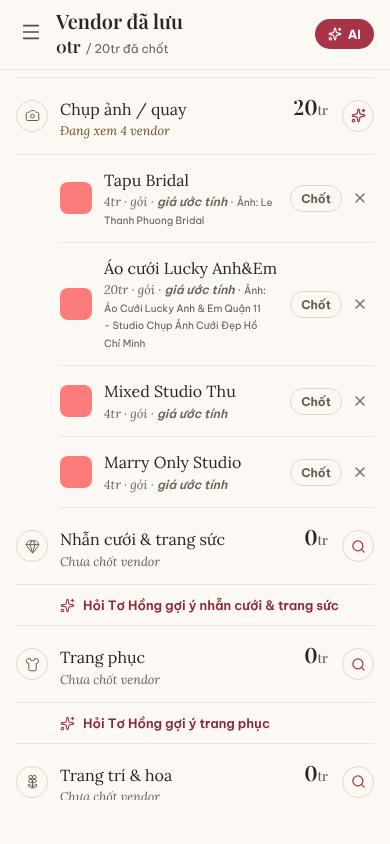
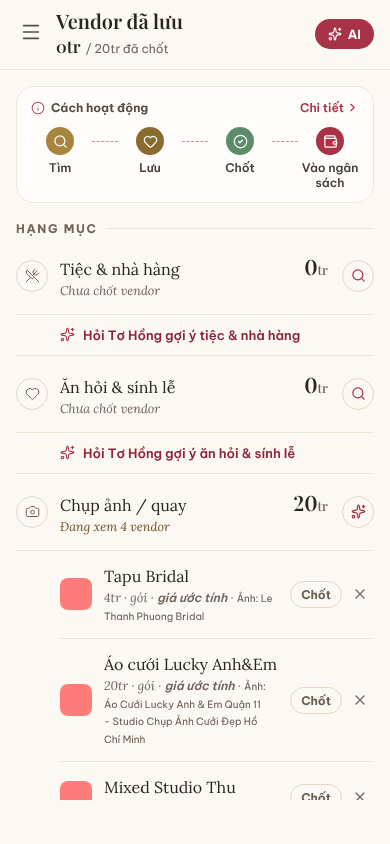
[T-166] bỏ cuộn tự động ở Vendors, cô lập bidi tên tác giả, ghi công gần ảnh hơn
Claude-Session: https://claude.ai/code/session_01UGMXKqieLcV2K1vphWF5EZ

diff --git a/src/screens/Vendors.jsx b/src/screens/Vendors.jsx
@@ -1,4 +1,4 @@
-import { useEffect, useRef, useState } from 'react';
+import { useEffect, useState } from 'react';
 import { Icon } from '../ui/Icon.jsx';
 import { VENDOR_CATEGORIES, useVendorCtx } from './VendorCtx.jsx';
 import { VFlowOverview, VendorFlowSheet } from './VendorFlowSheet.jsx';
@@ -80,7 +80,7 @@ function CatCard({ cat, onOpenChat }) {
   else if (vendors.length > 0) { sub = `Đang xem ${vendors.length} vendor`; subColor = 'var(--kim-700)'; }
 
   return (
-    <div data-cat={cat.id}>
+    <div>
       <ListRow
         icon={cat.icon} done={status === 'confirmed'}
         title={cat.name}
@@ -127,20 +127,6 @@ export function ScreenVendorShortlist({ onMenuOpen, onOpenVendorChat }) {
   const savedIds = VENDOR_CATEGORIES.flatMap((c) => (saved[c.id]?.shortlisted || []).map((v) => v.id)).join(',');
   useEffect(() => { if (savedIds) ensureVendorInfo(savedIds.split(',')); }, [savedIds, ensureVendorInfo]);
 
-  // Mở màn có vendor đã lưu thì cuộn tới hạng mục đầu tiên có vendor: tên tác giả ảnh (T-156) làm hàng vendor cao hơn,
-  // không cuộn thì vendor và ghi công nằm dưới các hạng mục trống. Chỉ một lần mỗi lần mở màn; sau đó người dùng tự cuộn.
-  const scrollRef = useRef(null);
-  const scrolledRef = useRef(false);
-  useEffect(() => {
-    if (scrolledRef.current || !totalSaved) return;
-    const box = scrollRef.current;
-    const target = box && VENDOR_CATEGORIES.map((c) => box.querySelector(`[data-cat="${c.id}"]`))
-      .find((el, i) => el && (saved[VENDOR_CATEGORIES[i].id]?.shortlisted || []).length > 0);
-    if (!target) return;
-    scrolledRef.current = true;
-    box.scrollTop = Math.max(0, target.getBoundingClientRect().top - box.getBoundingClientRect().top + box.scrollTop - 8);
-  }, [totalSaved, saved]);
-
   return (
     <div style={{ display: 'flex', flexDirection: 'column', height: '100%', background: 'var(--paper)' }}>
       {/* header */}
@@ -175,7 +161,7 @@ export function ScreenVendorShortlist({ onMenuOpen, onOpenVendorChat }) {
       </div>
 
       {/* scrollable content */}
-      <div ref={scrollRef} style={{ flex: 1, overflowY: 'auto', padding: '16px 16px 24px' }}>
+      <div style={{ flex: 1, overflowY: 'auto', padding: '16px 16px 24px' }}>
         <VFlowOverview onOpen={() => setHelpOpen(true)} />
         <SectionHeader label="Hạng mục" />
         {VENDOR_CATEGORIES.map((cat) => (

diff --git a/src/screens/chat/VendorChatCards.jsx b/src/screens/chat/VendorChatCards.jsx
@@ -773,10 +773,10 @@ export function VPickerMultiChatCard({ catId, anchor }) {
           <div style={{ flex: 1, minWidth: 0 }}>
             <div style={{ fontFamily: 'var(--font-body)', fontSize: 16, fontWeight: 600, color: 'var(--ink-900)',
               overflow: 'hidden', textOverflow: 'ellipsis', whiteSpace: 'nowrap' }}>{anchor.name}</div>
+            <PhotoCredit credit={creditOf(anchor)} />
             <div style={{ fontFamily: 'var(--font-ui)', fontSize: 12, color: 'var(--son-600)', marginTop: 2, fontWeight: 600 }}>
               Đang xem — luôn trong bảng so sánh
             </div>
-            <PhotoCredit credit={creditOf(anchor)} style={{ marginTop: 2 }} />
           </div>
           <span style={{ width: 20, height: 20, borderRadius: 6, background: 'var(--son-500)', display: 'flex',
             alignItems: 'center', justifyContent: 'center', flexShrink: 0 }}>
@@ -813,12 +813,12 @@ export function VPickerMultiChatCard({ catId, anchor }) {
               <div style={{ flex: 1, minWidth: 0 }}>
                 <div style={{ fontFamily: 'var(--font-body)', fontSize: 16, fontWeight: 600, color: 'var(--ink-900)',
                   overflow: 'hidden', textOverflow: 'ellipsis', whiteSpace: 'nowrap' }}>{v.name}</div>
+                <PhotoCredit credit={creditOf(v)} />
                 <div style={{ display: 'flex', alignItems: 'center', gap: 5, marginTop: 2 }}>
                   <span style={{ fontFamily: 'var(--font-ui)', fontSize: 12, fontWeight: 700, color: 'var(--son-600)', fontVariantNumeric: 'tabular-nums' }}>{priceText(v.priceTotal, null, v.perTable)}</span>
                   <PriceTag source={v.priceSource} label={v.priceLabel} />
                   <span style={{ fontFamily: 'var(--font-ui)', fontSize: 12, color: 'var(--ink-400)' }}>· {v.spec}</span>
                 </div>
-                <PhotoCredit credit={creditOf(v)} style={{ marginTop: 2 }} />
               </div>
               <MatchBadge pct={v.match} />
               <span style={{ width: 20, height: 20, borderRadius: 6, flexShrink: 0, display: 'flex', alignItems: 'center', justifyContent: 'center',

diff --git a/src/ui/PhotoCredit.jsx b/src/ui/PhotoCredit.jsx
@@ -1,7 +1,7 @@
 // Ghi công tác giả ảnh Google (T-156, ADR-041 điểm 4): tên tác giả của CHÍNH ảnh đang hiện, chữ thuần nhìn thấy được,
 // nguyên văn (không đổi hoa thường), cỡ chữ 10px, không cắt (tên dài xuống dòng), đứng cạnh ảnh.
 // `credit` null (ảnh không phải Google) thì không hiện gì. Ô ảnh nhỏ: đặt `inline` ngay cạnh/dưới ô, không ép vào trong ô.
-const BASE = { fontFamily: 'var(--font-ui)', fontSize: 10, lineHeight: 1.3, overflowWrap: 'anywhere', whiteSpace: 'normal', textTransform: 'none' };
+const BASE = { fontFamily: 'var(--font-ui)', fontSize: 10, lineHeight: 1.3, overflowWrap: 'anywhere', whiteSpace: 'normal', textTransform: 'none', unicodeBidi: 'isolate' };
 
 export function PhotoCredit({ credit, overlay = false, run = false, left = 8, bottom = 8, style }) {
   if (!credit) return null;

diff --git a/src/screens/Budget.jsx b/src/screens/Budget.jsx
@@ -199,8 +199,8 @@ function VendorDetailSheet({ vendor, catId, catAllocated, open, onClose, onConfi
           </div>
           <div style={{ flex: 1, minWidth: 0 }}>
             <div style={{ fontFamily: 'var(--font-display)', fontSize: 20, fontWeight: 600, color: 'var(--ink-900)' }}>{vendor.name}</div>
+            <PhotoCredit credit={photoCredit} />
             {vendor.spec && <div style={{ fontFamily: 'var(--font-ui)', fontSize: 12, color: 'var(--ink-500)', marginTop: 2 }}>{vendor.spec}</div>}
-            <PhotoCredit credit={photoCredit} style={{ marginTop: 2 }} />
           </div>
           <button onClick={onClose} style={{ background: 'none', border: 'none', cursor: 'pointer', padding: 6, display: 'flex', flexShrink: 0 }}>
             <Icon name="x" size={20} color="var(--ink-500)" />
